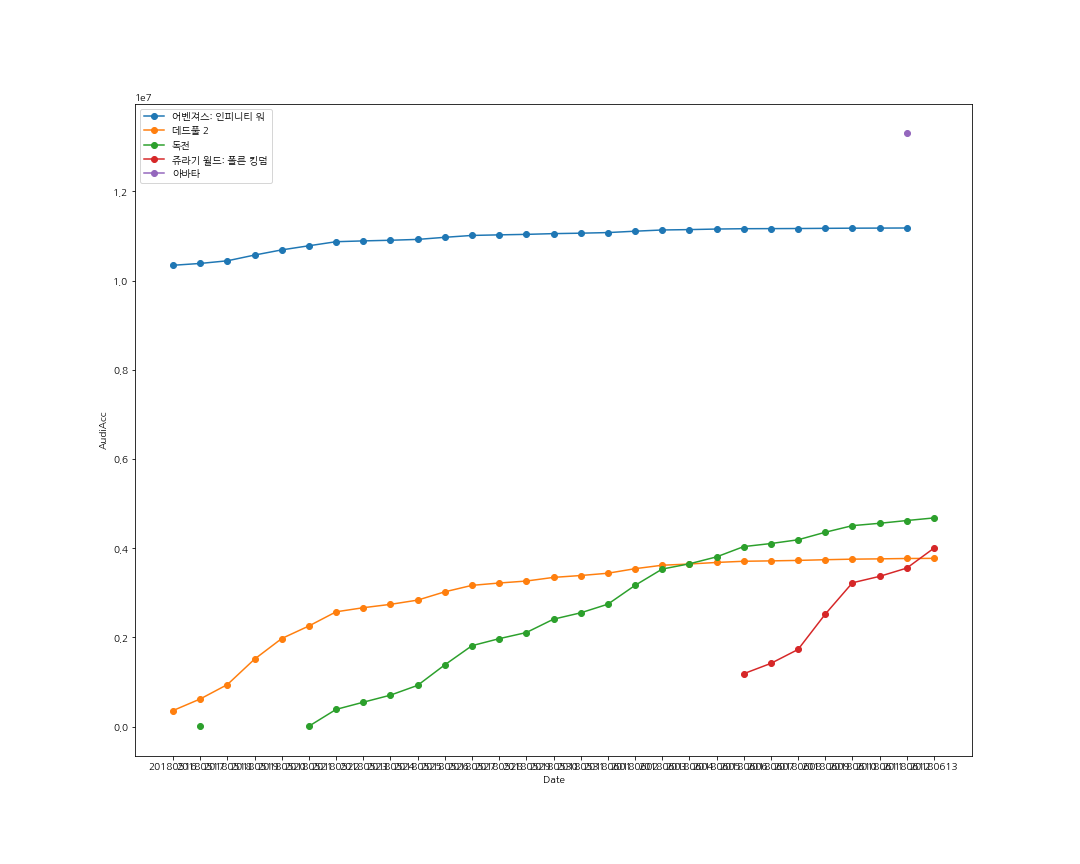
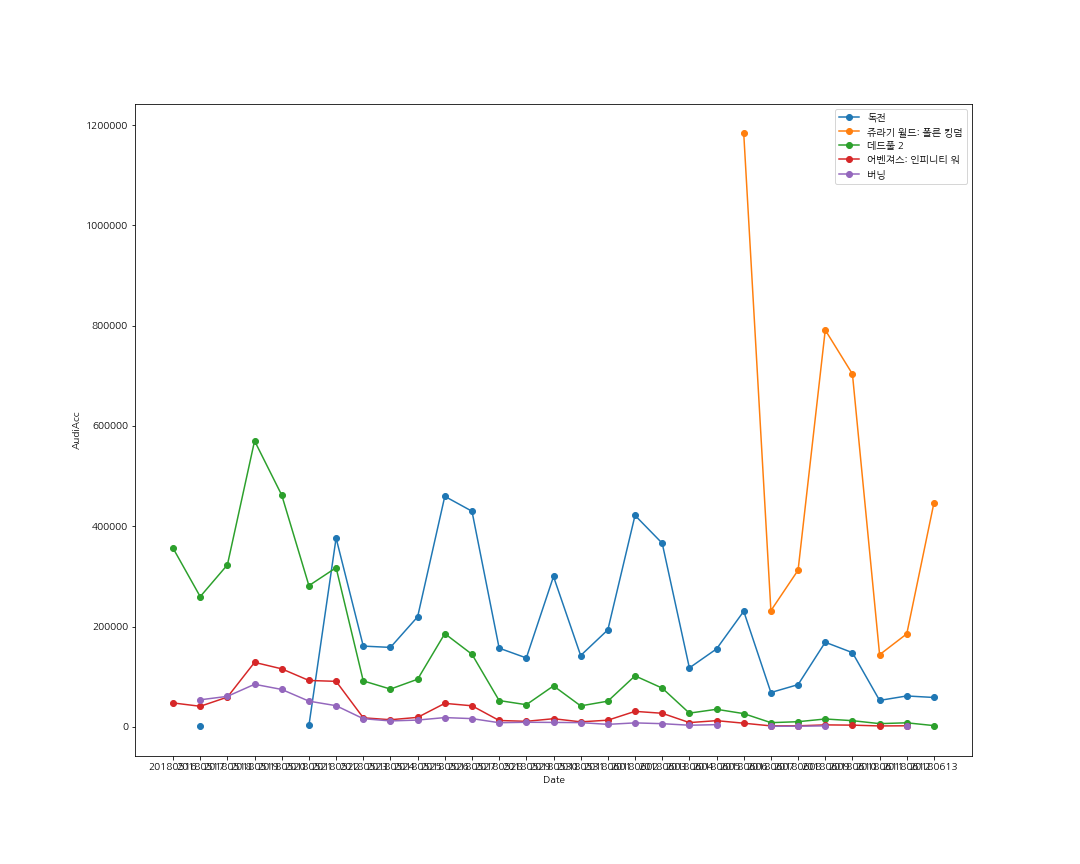
hyuna corrected

diff --git a/show_movie_trend.py b/show_movie_trend.py
@@ -52,21 +52,21 @@ def insert_movie_audiance_num_per_date(input_date, time_section):
     for date_time in searching_date:
         base_url = urllib.request.urlopen(f"http://www.kobis.or.kr/kobisopenapi/webservice/rest/boxoffice/searchDailyBoxOfficeList.json?key={kobis_key}&targetDt={date_time}")
         sources = json.load(base_url)
-        
+
         movie_infos = sources["boxOfficeResult"]['dailyBoxOfficeList']
 
         for movie_info in movie_infos:
             movie_name= movie_info["movieNm"]
-            search_date = date_time 
-            audiacc = movie_info["audiAcc"]
+            search_date = date_time
+            audiCnt = movie_info["audiCnt"]
             if  session.query(exists().where(and_(KobisMovieInfo.movie_name == movie_name,KobisMovieInfo.search_date == search_date))).scalar():
                 print("DataExists")
             else:
-                add_movie_info = KobisMovieInfo(movie_info["movieNm"], date_time, movie_info["audiAcc"])
+                add_movie_info = KobisMovieInfo(movie_info["movieNm"], date_time, movie_info["audiCnt"])
                 session.merge(add_movie_info)
                 session.commit()
-                print("value",movie_name, search_date, audiacc,"Inserted" )
-    return 
+                print("value",movie_name, search_date, audiCnt,"Inserted" )
+    return
 
 
 
